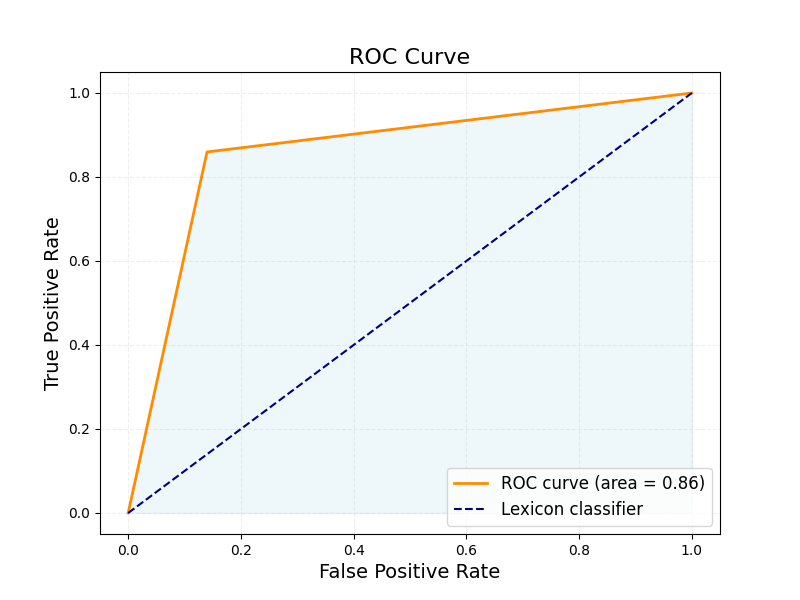
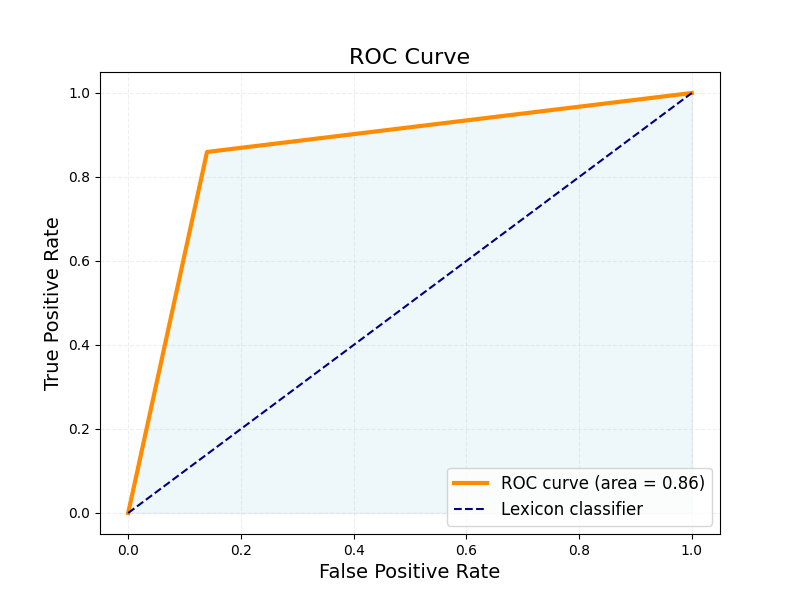
done

diff --git a/sentiment_analysis.py b/sentiment_analysis.py
@@ -2,7 +2,8 @@ import pandas as pd
 from sklearn import metrics
 import matplotlib.pyplot as plt
 from sklearn.metrics import roc_curve, auc
-
+import matplotlib.pyplot as plt
+from sklearn.metrics import precision_recall_curve, average_precision_score
 from helpers import tweet_score
 from sklearn.metrics import precision_score, recall_score, f1_score, accuracy_score
 from sklearn.metrics import ConfusionMatrixDisplay
@@ -80,7 +81,7 @@ roc_auc = auc(fpr, tpr)
 plt.figure(figsize=(8, 6))  # Larger figure for better visibility
 
 # Plot ROC curve with a smooth, visually appealing line
-plt.plot(fpr, tpr, color='darkorange', linewidth=2, label='ROC curve (area = %0.2f)' % roc_auc)
+plt.plot(fpr, tpr, color='darkorange', linewidth=3, label='ROC curve (area = %0.2f)' % roc_auc)
 
 # Diagonal line for random classifier
 plt.plot([0, 1], [0, 1], color='navy', linestyle='--', label='Lexicon classifier')
@@ -97,4 +98,29 @@ plt.grid(True, linestyle='--', alpha=0.2)  # Add a subtle grid
 # Enhanced visual appeal with gridlines and shaded area
 plt.fill_between(fpr, tpr, color='lightblue', alpha=0.2)
 plt.savefig("./roc_curve.png")
+plt.close()
 
+
+# Replace with your actual model predictions and true labels
+# Calculate precision, recall, and average precision
+precision, recall, _ = precision_recall_curve(y_true, y_pred)
+average_precision = average_precision_score(y_true, y_pred)
+
+# Create the plot
+plt.figure(figsize=(8, 6))  # Larger figure for better visibility
+
+# Plot PR curve with a visually appealing line
+plt.plot(recall, precision, color='forestgreen', linewidth=3, label='PR curve (AP = %0.2f)' % average_precision)
+
+# Customize plot elements for a polished look
+plt.xlim([-0.05, 1.05])  # Add margins for visual clarity
+plt.ylim([-0.05, 1.05])
+plt.xlabel('Recall', fontsize=14)
+plt.ylabel('Precision', fontsize=14)
+plt.title('Precision-Recall Curve', fontsize=16)
+plt.legend(loc="upper right", fontsize=12)
+plt.grid(True, linestyle='--', alpha=0.2)  # Add a subtle grid
+
+# Enhanced visual appeal with gridlines and shaded area
+plt.fill_between(recall, precision, color='lightgreen', alpha=0.2)
+plt.savefig("./precision_recall.png")
